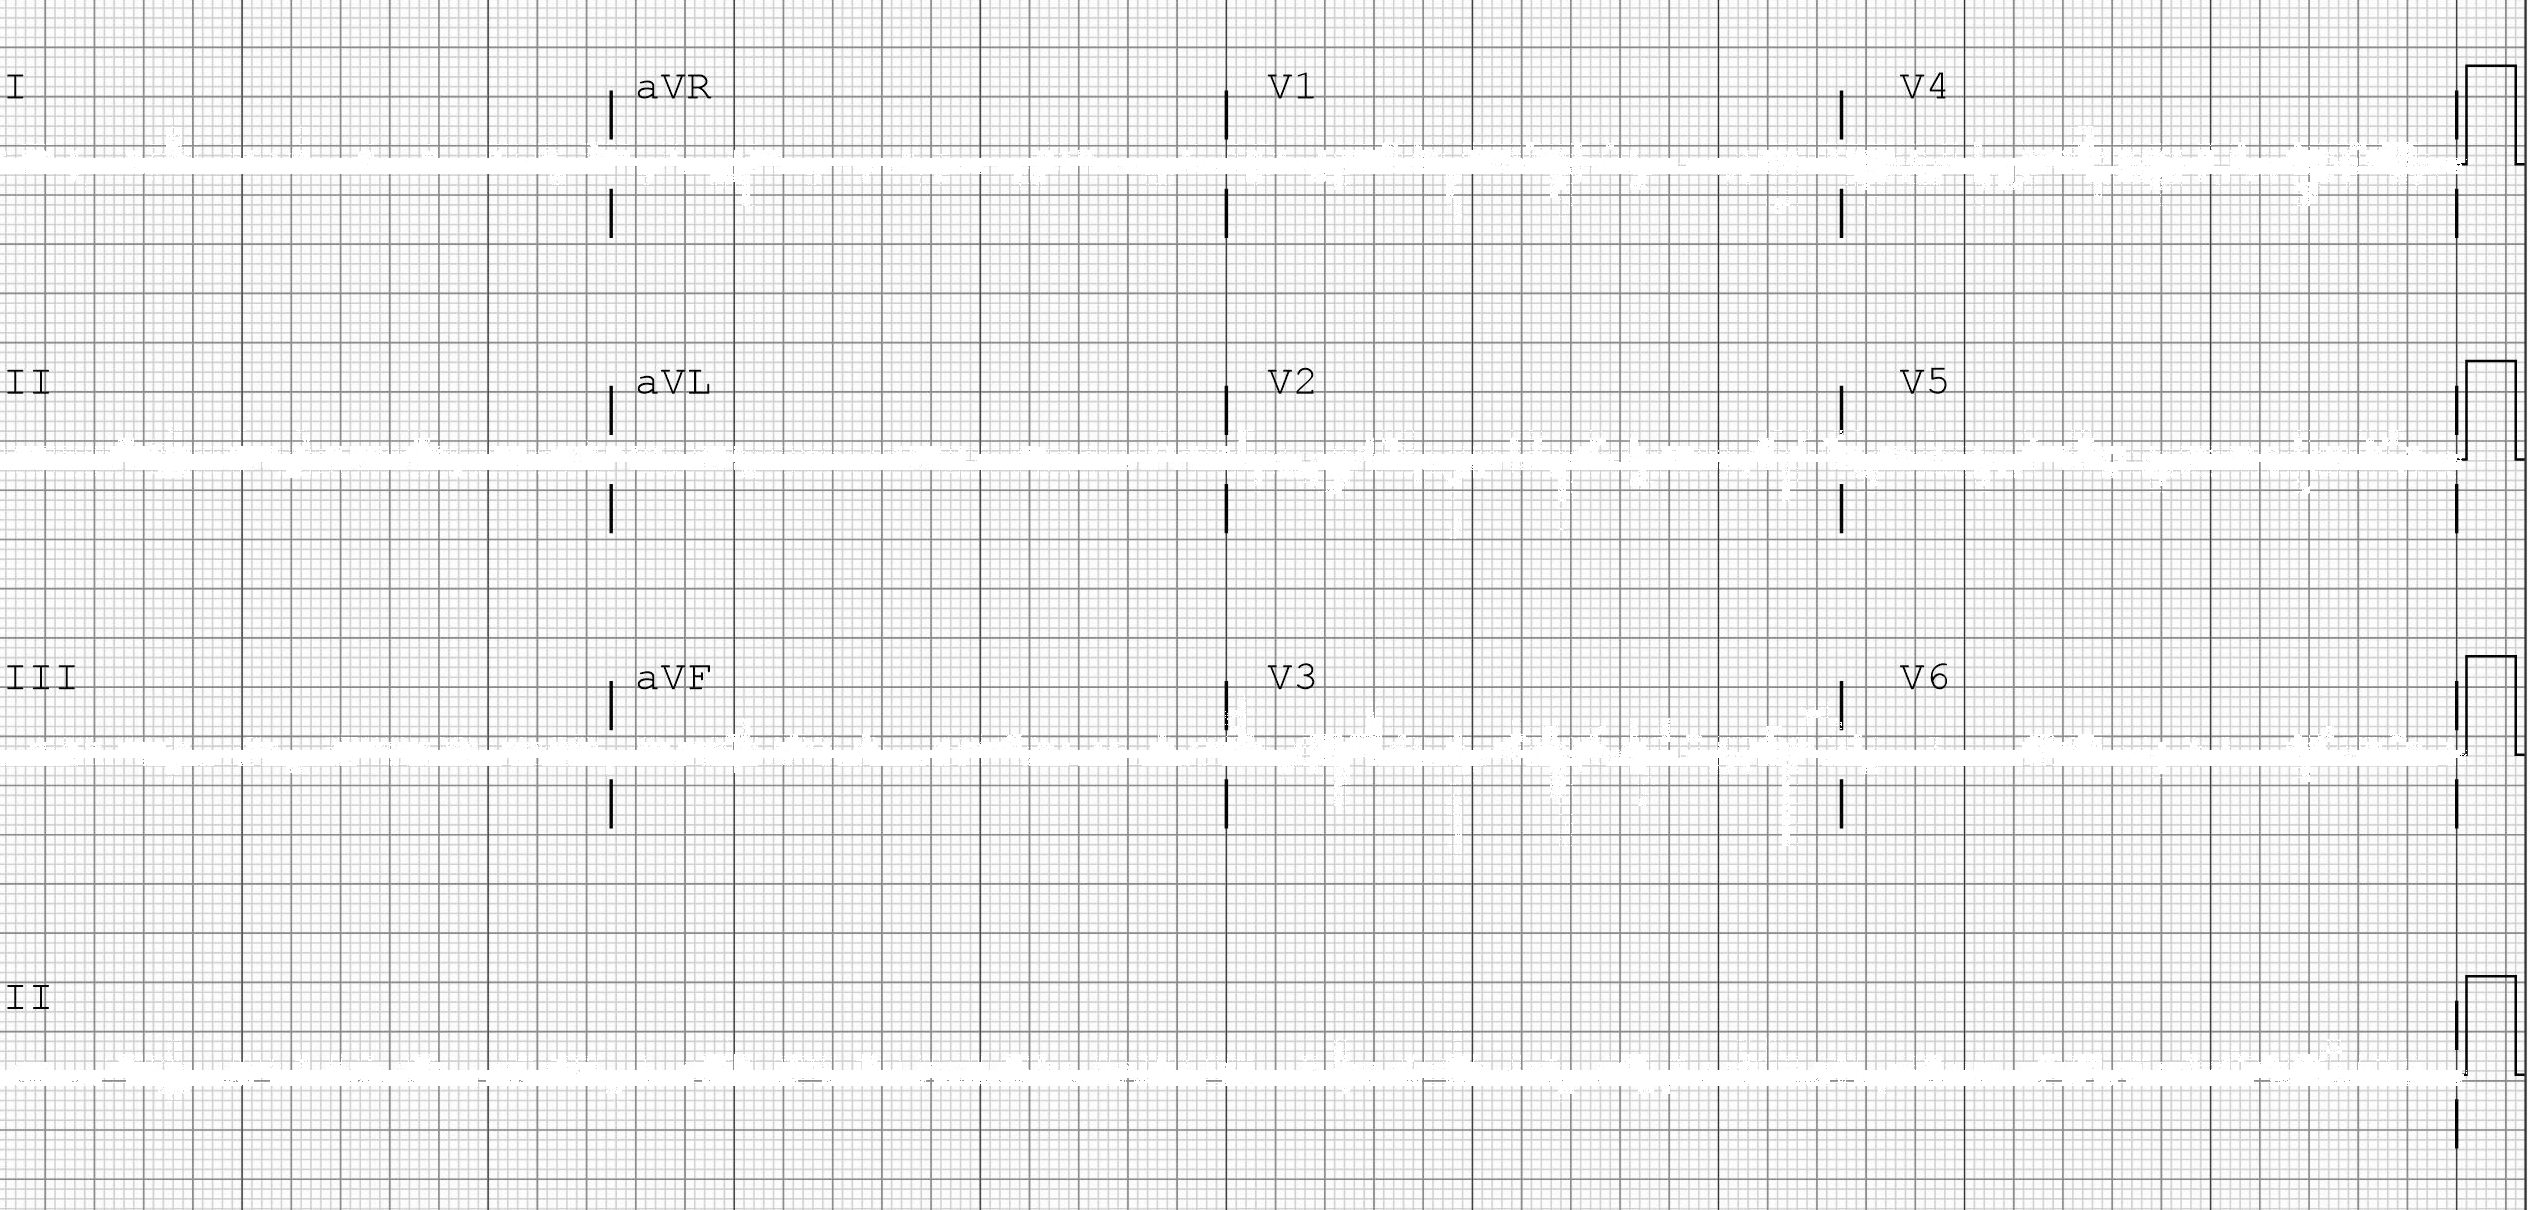
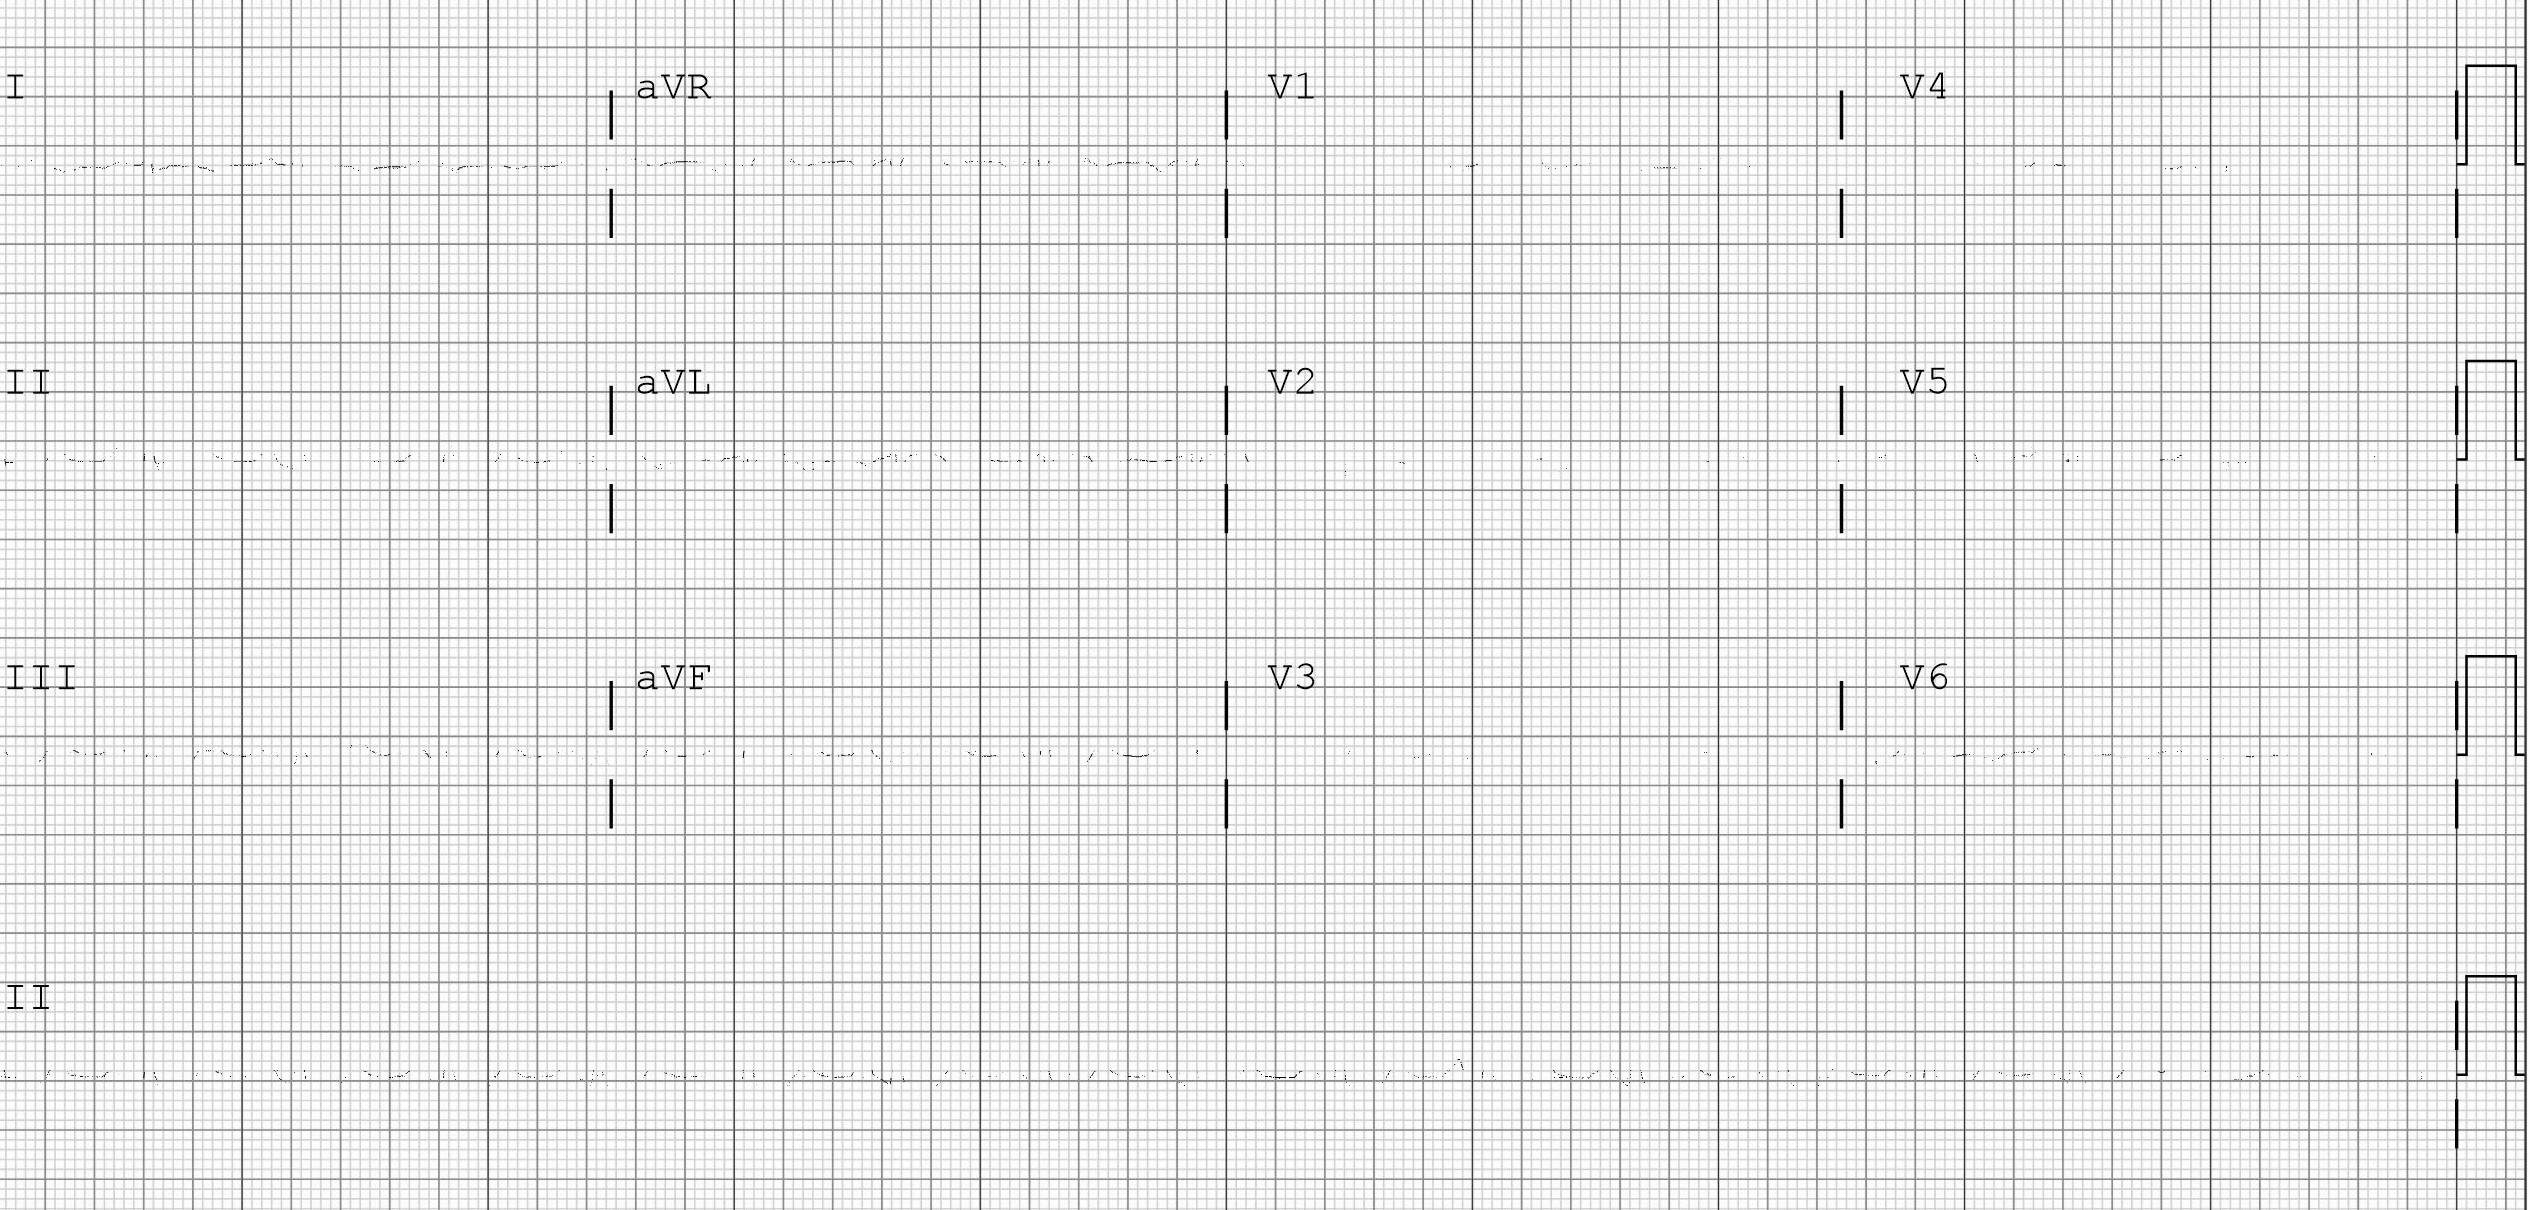
Creato codice che elabora i dati in greyscale

diff --git a/preprocessing/preprocessing_GreyScale.py b/preprocessing/preprocessing_GreyScale.py
@@ -7,8 +7,6 @@ from PIL import Image
 import io
 import os
 from scipy.ndimage import convolve
-# from scipy.interpolate import interp1d
-# from sklearn.cluster import KMeans
 from scipy.ndimage import median_filter
 
 
@@ -16,7 +14,7 @@ class Background:
     def __init__(self, path):
         self.path = path
         
-    def get_image_from_pdf(self,document_path):
+    def get_image_from_pdf(self, document_path):
         self.document_path = document_path
         pdf_document = fitz.open(self.document_path)
         page = pdf_document[0]
@@ -25,29 +23,37 @@ class Background:
         base_image = pdf_document.extract_image(xref)
         image_bytes = base_image["image"]
         pil_image = Image.open(io.BytesIO(image_bytes))
-        pil_image_cropped = pil_image.crop((10, 690, 2540, 1900 ))
+        pil_image_cropped = pil_image.crop((10, 690, 2540, 1900))
         pdf_document.close()
         
-        return pil_image_cropped
+        # Converti l'immagine in scala di grigi
+        pil_image_grayscale = pil_image_cropped.convert('L')
+
+        return pil_image_grayscale
+
     
     def save_similarities (self, img1,img2):
         array_img1 = np.array(img1)
         array_img2 = np.array(img2)
+
+        # print(array_img2.shape)
         tolleranza = 50000
-        tolleranza = 0
-        differenza = np.linalg.norm(array_img1 - array_img2, axis=-1) > tolleranza
-        nuova_immagine = np.where(differenza[..., None], 255, array_img1)
+        # tolleranza = 0
+        differenza = np.linalg.norm(array_img1 - array_img2, axis=0) > tolleranza
+        nuova_immagine = np.where(differenza, 255, array_img1)
+
         return nuova_immagine    
     
-    def calcola_pixel_comuni(self,array_immagini):
+    def calcola_pixel_comuni(self, array_immagini):
         stack = np.stack(array_immagini, axis=-1)
         pixel_comuni = np.zeros(array_immagini[0].shape, dtype=np.uint8)
-        for canale in range(3):
-            canale_array = stack[:, :, canale, :]
-            canale_array_flat = canale_array.reshape(-1, canale_array.shape[-1])
-            mode = np.apply_along_axis(lambda x: np.bincount(x).argmax(), axis=1, arr=canale_array_flat)
-            pixel_comuni[:, :, canale] = mode.reshape(array_immagini[0].shape[:2])
-        return pixel_comuni   
+
+        stack_flat = stack.reshape(-1, stack.shape[-1])
+        mode = np.apply_along_axis(lambda x: np.bincount(x).argmax(), axis=1, arr=stack_flat)
+        pixel_comuni = mode.reshape(array_immagini[0].shape)
+        
+        return pixel_comuni
+
     
     
     def iter_similarity(self):
@@ -64,11 +70,7 @@ class Background:
                 if(contatore >= 10 and combinazioni >= 10):
                     immagine1 = self.get_image_from_pdf(f'{self.path}/0{contatore}.pdf')
                     immagine2 = self.get_image_from_pdf(f'{self.path}/0{combinazioni}.pdf')
-                
-                img_grayscale = immagine1.convert('L')
-                immagine1 = Image.merge('RGB', (img_grayscale, img_grayscale, img_grayscale))
-                img_grayscale = immagine2.convert('L')
-                immagine2 = Image.merge('RGB', (img_grayscale, img_grayscale, img_grayscale))
+
                 repo_imgs.append(self.save_similarities(immagine1,immagine2))
         array_immagini = [np.array(immagine) for immagine in repo_imgs]       
         return array_immagini
@@ -104,8 +106,7 @@ class Rimozione_sfondo_e_tagli:
             immagine1 = self.get_image_from_pdf(f'{self.path}/00{contatore}.pdf')
         else:
             immagine1 = self.get_image_from_pdf(f'{self.path}/0{contatore}.pdf')
-        img_grayscale = immagine1.convert('L')
-        immagine1 = Image.merge('RGB', (img_grayscale, img_grayscale, img_grayscale))
+        immagine1 = immagine1.convert('L')
         return immagine1
     
     
@@ -124,9 +125,16 @@ class Rimozione_sfondo_e_tagli:
         array_img1_bin = (array_prima > soglia).astype(np.uint8)
         array_img2_bin = (array_seconda > soglia).astype(np.uint8)
     
-        tolleranza =0
-        differenza = np.linalg.norm(array_img1_bin - array_img2_bin, axis=-1) > tolleranza
-        nuova_immagine = np.where(differenza[..., None], array_img1_bin, 255 )
+        # tolleranza =50000
+        # differenza = np.linalg.norm(array_img1_bin - array_img2_bin, axis = 0) > tolleranza
+        # nuova_immagine = np.where(differenza, array_img1_bin, 255 )
+        tolleranza = 0
+        differenza = np.abs(array_img1_bin - array_img2_bin) > tolleranza
+        # print(differenza.shape)
+        # plt.plot(differenza)
+        # plt.show()
+        # print(differenza)
+        nuova_immagine = np.where(differenza, array_img1_bin, 255)
         
         return Image.fromarray(nuova_immagine)
     
@@ -188,7 +196,7 @@ class Rimozione_sfondo_e_tagli:
         immagine1 = self.importa_file(contatore)
         img_no_bkgr= self.differenze(immagine1,sfondo)
         crop_dict = self.get_image_derivation(img_no_bkgr)
-        # self.stampa(crop_dict)
+        
         return crop_dict
         
 
@@ -201,6 +209,7 @@ if __name__ == '__main__':
     if not os.path.isfile(os.path.join("preprocessing", "sfondo.png")):
         repo_imgs = Background('data')
         sfondo= repo_imgs.workflow()
+        sfondo = sfondo.astype(np.uint8)
         Image.fromarray(sfondo).save('preprocessing/sfondo.png')
     else:
         sfondo = Image.open("preprocessing/sfondo.png")
